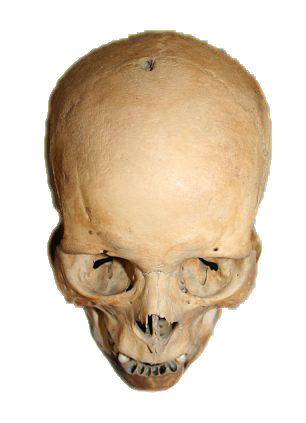
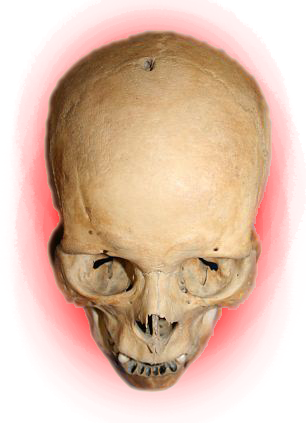
improved images

Changed region(s): [[0.0294, 0.0, 0.9706, 0.9527]]

diff --git a/files/style.css b/files/style.css
@@ -10,24 +10,35 @@
     -o-user-select: none;
     user-select: none;
 }
+body {
+	background-color: #221;
+	/*background-image: -webkit-repeating-linear-gradient( -45deg, gray, #fff 5px, #522 5px);*/
+
+
+}
 #pseudocanvas {
     width: 800px;
     height: 800px;
-    background-image: url('img/boon-square.png');
+    background-image: url('img/bg.jpg');
     background-repeat: no-repeat;
     background-position: center;
     background-color: gray;
     position: absolute;
     left: calc(50% - 400px);
     top: calc(50% - 400px);
+
+    -moz-box-shadow: 	inset 0 0 10px #000, 0 0 10px #000;
+	-webkit-box-shadow: inset 0 0 10px #000, 0 0 10px #000;
+	box-shadow: 		inset 0 0 10px #000, 0 0 10px #000;
+
 }
 .enemy {
     position: absolute;
 }
 div.word {
     position: absolute;
-    background: rgba(0, 0, 0, 0.5);
-    color: rgba(255, 255, 255, 0.7);
+    background: rgba(0, 0, 0, 0.8);
+    color: rgba(255, 255, 255, 0.9);
     font-size: 14px;
     font-weight: bold;
     border: 2px solid rgba(255, 255, 255, 0.5);
@@ -70,15 +81,21 @@ input {
 }
 .lightbox {
 	z-index: 10;
-	background-color: rgba(255,255,255,0.9);
+	background-color: rgba(255,255,255,0.95);
 	-webkit-box-shadow: 0px 0px 50px rgba(255, 255, 255, 0.89);
 	-moz-box-shadow:    0px 0px 50px rgba(255, 255, 255, 0.89);
 	box-shadow:         0px 0px 50px rgba(255, 255, 255, 0.89);
+	
 	width: 500px;
 	height: 500px;
-	margin: 100px auto;
-	padding-top: 40px;
-	position: relative;
+
+	margin: 0 auto;
+	padding-top: 50px;
+
+	position: absolute;
+	left: 150px;
+	top: 100px;
+
 	text-align: center;	
 	font-size: 50px;
 	font-family: 'Bigelow Rules', cursive;
@@ -91,7 +108,7 @@ hr {
 	background: #333;
 }
 .instructions {
-	font-family: 
+	 
 }
 .btn {
     display: block;

diff --git a/shouter.js b/shouter.js
@@ -238,12 +238,14 @@ var addEnemy_timer;
 function start () {
 	GAME.removeAll();
 	GAME.score = 0;	
+	GAME.max_enemies = 5;
+	GAME.level = 1;
 
 	refresh = window.setInterval(GAME.refreshAll, 1000);
 	addEnemy_timer = window.setInterval(GAME.addEnemy, 5000);
 	
 	$(".lightbox").fadeOut("slow", "linear");
-	$("#score").text('');
+	$("#score").text('0');
 	$("#score").show();
 	GAME.addEnemy();
 }
@@ -262,6 +264,3 @@ $(window).click(function () {
 });
 
 $(".btn").click(start);
-
-
-
